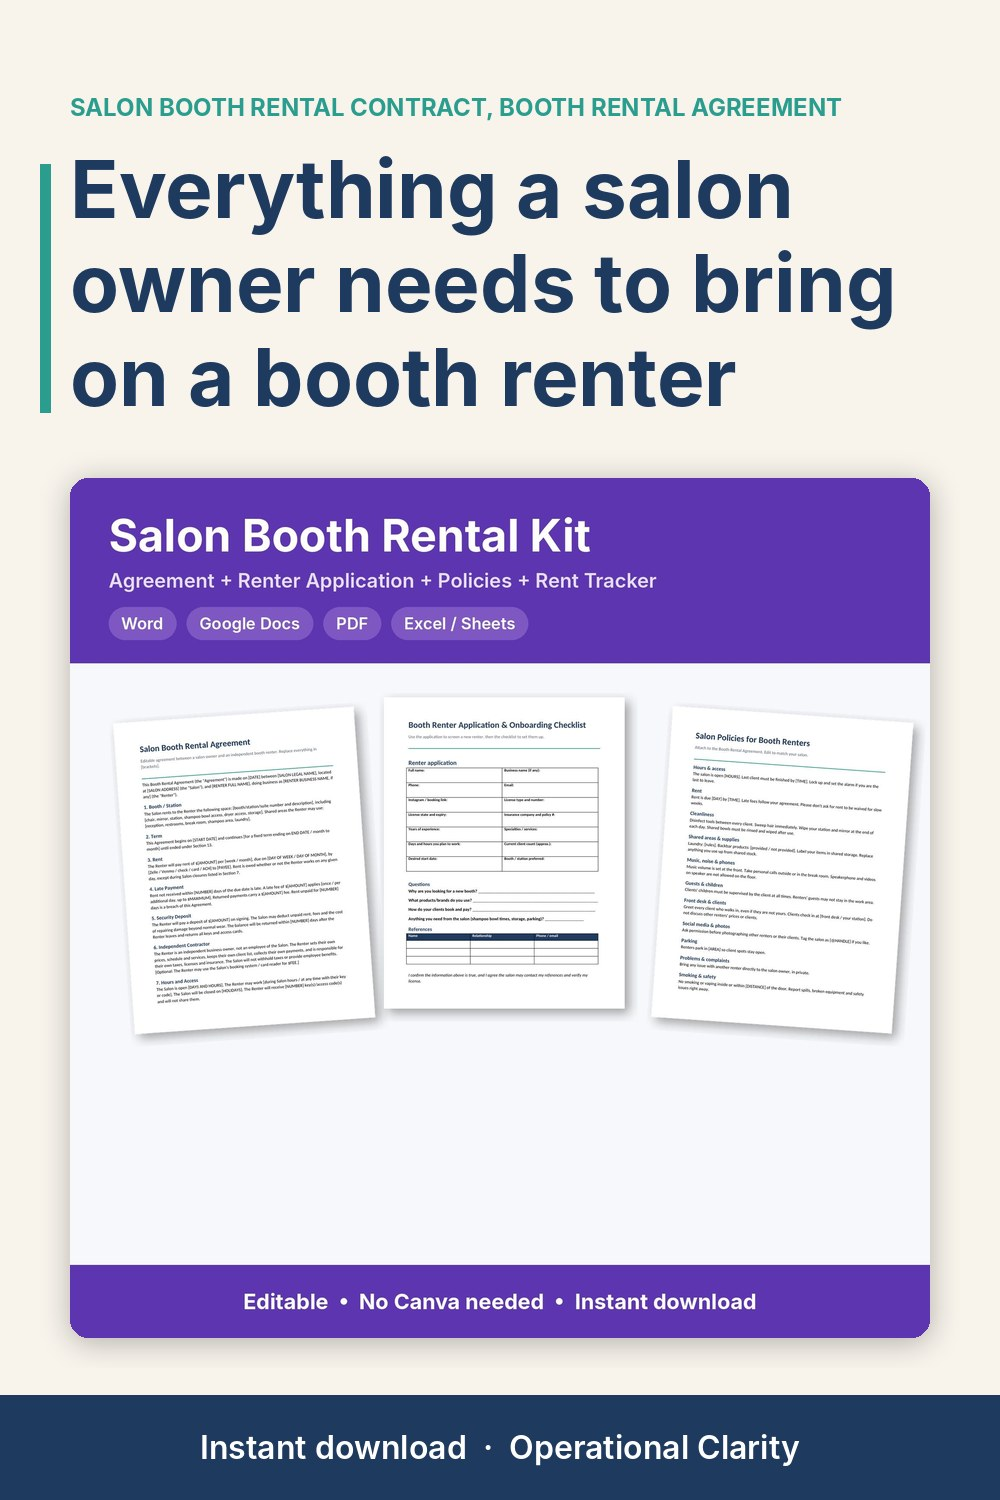
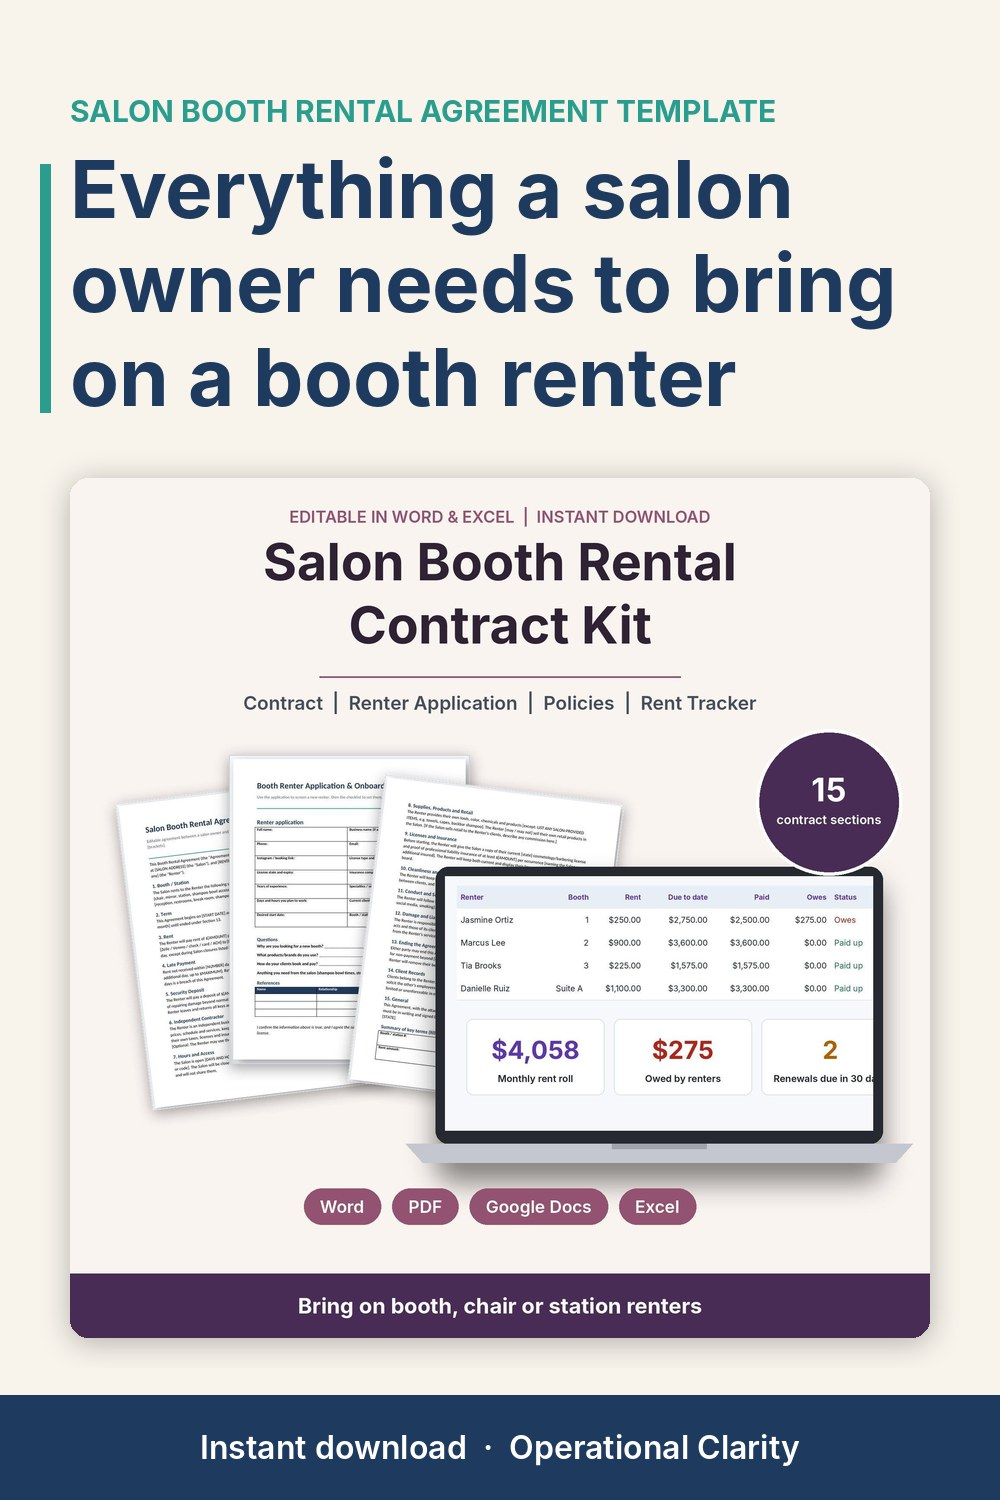
STATS 11/10: main + b pins re-rendered for reverted title of 4597001937; refresh feed
Claude-Session: https://claude.ai/code/session_01DNMp1qHdJLzhWbKsZHTYBr

Changed region(s): [[0.062, 0.3067, 0.93, 0.8893], [0.062, 0.0613, 0.837, 0.092]]

diff --git a/index.html b/index.html
@@ -7,6 +7,6 @@
 <div class="card"><h2><a href="recipe-cost-calculator.html">Recipe Cost Calculator</a></h2><p>Cost per batch, cost per serving and a suggested price for baked goods.</p></div>
 <div class="card"><h2><a href="paycheck-budget-calculator.html">Paycheck Budget Calculator</a></h2><p>Split bills across paychecks and see what is left from each one.</p></div>
 <div class="card"><h2><a href="landed-cost-calculator.html">Landed Cost Calculator</a></h2><p>True cost per unit after freight, duty and fees.</p></div>
-<h2 id="templates">Spreadsheet & Document Templates</h2><ul><li><a href="p/4595349035.html">2027 Planner Digital &amp; Printable</a></li><li><a href="p/4594598019.html">Airbnb Welcome Book Template Editable in Word Google Docs</a></li><li><a href="p/4602024296.html">Babysitting Forms Kit</a></li><li><a href="p/4553654453.html">Bakery Business Bundle</a></li><li><a href="p/4596837173.html">Bookkeeping Spreadsheet Small Business</a></li><li><a href="p/4608973473.html">Brow Lamination Forms Kit</a></li><li><a href="p/4554866019.html">Business Budget Spreadsheet</a></li><li><a href="p/4600601073.html">Candle Making Log Spreadsheet + Fragrance Load Calculator</a></li><li><a href="p/4601355308.html">Catering Contract Template Kit</a></li><li><a href="p/4607543295.html">Cleaning Business Forms Kit</a></li><li><a href="p/4598967865.html">Coffee Shop Business Plan Template + Startup &amp; Profit Planner Spreadsheet</a></li><li><a href="p/4602477706.html">Consignment Tracker Spreadsheet + Consignment Agreement</a></li><li><a href="p/4600607420.html">Consulting Contract Template + Statement of Work &amp; Proposal</a></li><li><a href="p/4554878636.html">Contract Tracker Spreadsheet</a></li><li><a href="p/4597002015.html">Cookie Pricing Calculator</a></li><li><a href="p/4601198780.html">Dance Studio Forms Kit</a></li><li><a href="p/4601100164.html">Daycare Menu Planner Spreadsheet + Weekly Menu Template</a></li><li><a href="p/4610492983.html">Dog Grooming Forms Kit</a></li><li><a href="p/4598811066.html">Embroidery Pricing Calculator Spreadsheet</a></li><li><a href="p/4594516468.html">Employee Schedule Template Excel Google Sheets</a></li><li><a href="p/4607276707.html">Esthetician Forms Kit</a></li><li><a href="p/4599677766.html">Event Planner Contract Template + Client Questionnaire &amp; Budget Tracker</a></li><li><a href="p/4599435344.html">Florist Order Form Template + Wedding Consultation Form &amp; Flower Pricing Calculator</a></li><li><a href="p/4602913827.html">Food Cost Bundle</a></li><li><a href="p/4597499808.html">Food Truck Business Plan Template + Startup &amp; Profit Planner Spreadsheet</a></li><li><a href="p/4602392090.html">Freelance Writer Contract Template Kit</a></li><li><a href="p/4601783746.html">Graphic Design Contract Template Kit</a></li><li><a href="p/4611234615.html">Hair Extension Forms Kit</a></li><li><a href="p/4597022350.html">Home Daycare Starter Kit</a></li><li><a href="p/4601273740.html">Horse Boarding Contract Kit</a></li><li><a href="p/4552565761.html">Ingredient Cost Comparison Sheet</a></li><li><a href="p/4552578072.html">Inventory Count Sheet</a></li><li><a href="p/4554865995.html">Inventory Loss Tracker</a></li><li><a href="p/4553664350.html">Inventory Management Bundle</a></li><li><a href="p/4443844823.html">Inventory Tracker Spreadsheet with Reorder Alerts</a></li><li><a href="p/4602913735.html">Inventory and Ordering Bundle</a></li><li><a href="p/4554878596.html">Landed Cost Calculator Spreadsheet</a></li><li><a href="p/4602544610.html">Landscaping Contract Template Kit</a></li><li><a href="p/4606330823.html">Lash Tech Forms Kit</a></li><li><a href="p/4608245532.html">Makeup Artist Contract Kit</a></li><li><a href="p/4598084241.html">Massage Intake Form Template + SOAP Notes &amp; Client Tracker Spreadsheet</a></li><li><a href="p/4611943162.html">Microblading Consent Form Kit</a></li><li><a href="p/4601646939.html">Mobile Bartending Contract Template Kit</a></li><li><a href="p/4558377143.html">Monthly Profit and Loss Dashboard Template</a></li><li><a href="p/4554866001.html">Multi Location Inventory Tracker</a></li><li><a href="p/4602844224.html">Nail Tech Forms Kit</a></li><li><a href="p/4601947594.html">Nanny Contract Template Kit</a></li><li><a href="p/4598251079.html">Notary Log Printable, Notary Journal 150 Entries, Notary Record Book + Business Kit, Fee Sheet, Loan Signing Checklist &amp; Mileage Tracker</a></li><li><a href="p/4594847811.html">Paycheck Budget Planner Spreadsheet</a></li><li><a href="p/4599761870.html">Personal Trainer Forms + Client Tracker</a></li><li><a href="p/4598178519.html">Pet Sitting Contract Template + Pet Care Sheet &amp; Booking Invoice Tracker</a></li><li><a href="p/4612559974.html">Photo Booth Contract Kit</a></li><li><a href="p/4597992636.html">Photography Client Questionnaire Templates + Pricing Calculator &amp; Booking Tracker</a></li><li><a href="p/4599831777.html">Piano Lesson Tracker + Practice Assignment Sheet &amp; Studio Policy</a></li><li><a href="p/4594208500.html">Print on Demand Profit Tracker Spreadsheet</a></li><li><a href="p/4554878680.html">Product Cost Calculator</a></li><li><a href="p/4603480063.html">Purchase Order + Inventory Dashboard</a></li><li><a href="p/4552565751.html">Purchase Order Approval Tracker</a></li><li><a href="p/4430807339.html">Purchase Order Tracker Spreadsheet &amp; Receiving Log</a></li><li><a href="p/4552578064.html">Purchasing SOP Templates</a></li><li><a href="p/4553664356.html">Purchasing Templates Bundle</a></li><li><a href="p/4554878614.html">Quote Comparison Spreadsheet</a></li><li><a href="p/4562652240.html">Recipe Cost Calculator Google Sheets Excel</a></li><li><a href="p/4552578048.html">Reorder Point Calculator</a></li><li><a href="p/4600974020.html">Restaurant Inventory Sheet + Food Cost Calculator</a></li><li><a href="p/4604903580.html">Restaurant Purchasing Bundle</a></li><li><a href="p/4604185746.html">Retail Shop Bundle</a></li><li><a href="p/4554878660.html">Returns Tracker Spreadsheet</a></li><li><a href="p/4554878628.html">Sales Forecast Spreadsheet</a></li><li><a href="p/4597001937.html">Salon Booth Rental Contract, Booth Rental Agreement, Salon Station &amp; Chair Rental, Renter Application, Policies, Rent Tracker, Word Excel</a></li><li><a href="p/4561265217.html">Simple Inventory Tracker Spreadsheet</a></li><li><a href="p/4605653122.html">Small Business Bookkeeping Dashboard</a></li><li><a href="p/4553654601.html">Small Business Operations Bundle</a></li><li><a href="p/4598888813.html">Soap Making Log Spreadsheet + Cost per Bar Calculator</a></li><li><a href="p/4598679324.html">Social Media Manager Contract Template + Client Onboarding &amp; Pricing Calculator</a></li><li><a href="p/4609739239.html">Spray Tan Forms Kit</a></li><li><a href="p/4552578060.html">Supplier Price Tracker</a></li><li><a href="p/4552578052.html">Supplier Tracker Spreadsheet</a></li><li><a href="p/4602618784.html">Tattoo Consent Form Kit</a></li><li><a href="p/4596131544.html">Tax Deduction Tracker Spreadsheet</a></li><li><a href="p/4601852361.html">Tutoring Contract Template Kit</a></li><li><a href="p/4552565827.html">Vendor Onboarding Checklist</a></li><li><a href="p/4599059861.html">Virtual Assistant Contract Template + Client Onboarding &amp; Retainer Time Tracker</a></li><li><a href="p/4554865969.html">Warehouse Spreadsheet</a></li><li><a href="p/4602285754.html">Web Design Contract Template Kit</a></li><li><a href="p/4598332795.html">Wholesale Order Form Template, Editable Wholesale Price List &amp; Order Tracker Spreadsheet, Wholesale Terms, Buyer Application, Excel Word</a></li><li><a href="p/4561283977.html">Wholesale Price List Template Excel Google Sheets</a></li></ul>
+<h2 id="templates">Spreadsheet & Document Templates</h2><ul><li><a href="p/4595349035.html">2027 Planner Digital &amp; Printable</a></li><li><a href="p/4594598019.html">Airbnb Welcome Book Template Editable in Word Google Docs</a></li><li><a href="p/4602024296.html">Babysitting Forms Kit</a></li><li><a href="p/4553654453.html">Bakery Business Bundle</a></li><li><a href="p/4596837173.html">Bookkeeping Spreadsheet Small Business</a></li><li><a href="p/4608973473.html">Brow Lamination Forms Kit</a></li><li><a href="p/4554866019.html">Business Budget Spreadsheet</a></li><li><a href="p/4600601073.html">Candle Making Log Spreadsheet + Fragrance Load Calculator</a></li><li><a href="p/4601355308.html">Catering Contract Template Kit</a></li><li><a href="p/4607543295.html">Cleaning Business Forms Kit</a></li><li><a href="p/4598967865.html">Coffee Shop Business Plan Template + Startup &amp; Profit Planner Spreadsheet</a></li><li><a href="p/4602477706.html">Consignment Tracker Spreadsheet + Consignment Agreement</a></li><li><a href="p/4600607420.html">Consulting Contract Template + Statement of Work &amp; Proposal</a></li><li><a href="p/4554878636.html">Contract Tracker Spreadsheet</a></li><li><a href="p/4597002015.html">Cookie Pricing Calculator</a></li><li><a href="p/4601198780.html">Dance Studio Forms Kit</a></li><li><a href="p/4601100164.html">Daycare Menu Planner Spreadsheet + Weekly Menu Template</a></li><li><a href="p/4610492983.html">Dog Grooming Forms Kit</a></li><li><a href="p/4598811066.html">Embroidery Pricing Calculator Spreadsheet</a></li><li><a href="p/4594516468.html">Employee Schedule Template Excel Google Sheets</a></li><li><a href="p/4607276707.html">Esthetician Forms Kit</a></li><li><a href="p/4599677766.html">Event Planner Contract Template + Client Questionnaire &amp; Budget Tracker</a></li><li><a href="p/4599435344.html">Florist Order Form Template + Wedding Consultation Form &amp; Flower Pricing Calculator</a></li><li><a href="p/4602913827.html">Food Cost Bundle</a></li><li><a href="p/4597499808.html">Food Truck Business Plan Template + Startup &amp; Profit Planner Spreadsheet</a></li><li><a href="p/4602392090.html">Freelance Writer Contract Template Kit</a></li><li><a href="p/4601783746.html">Graphic Design Contract Template Kit</a></li><li><a href="p/4611234615.html">Hair Extension Forms Kit</a></li><li><a href="p/4597022350.html">Home Daycare Starter Kit</a></li><li><a href="p/4601273740.html">Horse Boarding Contract Kit</a></li><li><a href="p/4552565761.html">Ingredient Cost Comparison Sheet</a></li><li><a href="p/4552578072.html">Inventory Count Sheet</a></li><li><a href="p/4554865995.html">Inventory Loss Tracker</a></li><li><a href="p/4553664350.html">Inventory Management Bundle</a></li><li><a href="p/4443844823.html">Inventory Tracker Spreadsheet with Reorder Alerts</a></li><li><a href="p/4602913735.html">Inventory and Ordering Bundle</a></li><li><a href="p/4554878596.html">Landed Cost Calculator Spreadsheet</a></li><li><a href="p/4602544610.html">Landscaping Contract Template Kit</a></li><li><a href="p/4606330823.html">Lash Tech Forms Kit</a></li><li><a href="p/4608245532.html">Makeup Artist Contract Kit</a></li><li><a href="p/4598084241.html">Massage Intake Form Template + SOAP Notes &amp; Client Tracker Spreadsheet</a></li><li><a href="p/4611943162.html">Microblading Consent Form Kit</a></li><li><a href="p/4601646939.html">Mobile Bartending Contract Template Kit</a></li><li><a href="p/4558377143.html">Monthly Profit and Loss Dashboard Template</a></li><li><a href="p/4554866001.html">Multi Location Inventory Tracker</a></li><li><a href="p/4602844224.html">Nail Tech Forms Kit</a></li><li><a href="p/4601947594.html">Nanny Contract Template Kit</a></li><li><a href="p/4598251079.html">Notary Log Printable, Notary Journal 150 Entries, Notary Record Book + Business Kit, Fee Sheet, Loan Signing Checklist &amp; Mileage Tracker</a></li><li><a href="p/4594847811.html">Paycheck Budget Planner Spreadsheet</a></li><li><a href="p/4599761870.html">Personal Trainer Forms + Client Tracker</a></li><li><a href="p/4598178519.html">Pet Sitting Contract Template + Pet Care Sheet &amp; Booking Invoice Tracker</a></li><li><a href="p/4612559974.html">Photo Booth Contract Kit</a></li><li><a href="p/4597992636.html">Photography Client Questionnaire Templates + Pricing Calculator &amp; Booking Tracker</a></li><li><a href="p/4599831777.html">Piano Lesson Tracker + Practice Assignment Sheet &amp; Studio Policy</a></li><li><a href="p/4594208500.html">Print on Demand Profit Tracker Spreadsheet</a></li><li><a href="p/4554878680.html">Product Cost Calculator</a></li><li><a href="p/4603480063.html">Purchase Order + Inventory Dashboard</a></li><li><a href="p/4552565751.html">Purchase Order Approval Tracker</a></li><li><a href="p/4430807339.html">Purchase Order Tracker Spreadsheet &amp; Receiving Log</a></li><li><a href="p/4552578064.html">Purchasing SOP Templates</a></li><li><a href="p/4553664356.html">Purchasing Templates Bundle</a></li><li><a href="p/4554878614.html">Quote Comparison Spreadsheet</a></li><li><a href="p/4562652240.html">Recipe Cost Calculator Google Sheets Excel</a></li><li><a href="p/4552578048.html">Reorder Point Calculator</a></li><li><a href="p/4600974020.html">Restaurant Inventory Sheet + Food Cost Calculator</a></li><li><a href="p/4604903580.html">Restaurant Purchasing Bundle</a></li><li><a href="p/4604185746.html">Retail Shop Bundle</a></li><li><a href="p/4554878660.html">Returns Tracker Spreadsheet</a></li><li><a href="p/4554878628.html">Sales Forecast Spreadsheet</a></li><li><a href="p/4597001937.html">Salon Booth Rental Agreement Template</a></li><li><a href="p/4561265217.html">Simple Inventory Tracker Spreadsheet</a></li><li><a href="p/4605653122.html">Small Business Bookkeeping Dashboard</a></li><li><a href="p/4553654601.html">Small Business Operations Bundle</a></li><li><a href="p/4598888813.html">Soap Making Log Spreadsheet + Cost per Bar Calculator</a></li><li><a href="p/4598679324.html">Social Media Manager Contract Template + Client Onboarding &amp; Pricing Calculator</a></li><li><a href="p/4609739239.html">Spray Tan Forms Kit</a></li><li><a href="p/4552578060.html">Supplier Price Tracker</a></li><li><a href="p/4552578052.html">Supplier Tracker Spreadsheet</a></li><li><a href="p/4602618784.html">Tattoo Consent Form Kit</a></li><li><a href="p/4596131544.html">Tax Deduction Tracker Spreadsheet</a></li><li><a href="p/4601852361.html">Tutoring Contract Template Kit</a></li><li><a href="p/4552565827.html">Vendor Onboarding Checklist</a></li><li><a href="p/4599059861.html">Virtual Assistant Contract Template + Client Onboarding &amp; Retainer Time Tracker</a></li><li><a href="p/4554865969.html">Warehouse Spreadsheet</a></li><li><a href="p/4602285754.html">Web Design Contract Template Kit</a></li><li><a href="p/4598332795.html">Wholesale Order Form Template, Editable Wholesale Price List &amp; Order Tracker Spreadsheet, Wholesale Terms, Buyer Application, Excel Word</a></li><li><a href="p/4561283977.html">Wholesale Price List Template Excel Google Sheets</a></li></ul>
 <p>Want the full spreadsheet versions? <a class="cta" href="https://www.etsy.com/shop/Operationalclarity">Browse all templates on Etsy</a></p>
 </main><footer>Free tools by <a href="https://www.etsy.com/shop/Operationalclarity">Operational Clarity</a>. Estimates only, not financial or tax advice. Not affiliated with Etsy.</footer></body></html>

diff --git a/p/4597001937.html b/p/4597001937.html
@@ -1,8 +1,8 @@
 <!doctype html><html lang="en"><head><meta charset="utf-8"><meta name="viewport" content="width=device-width,initial-scale=1">
-<title>Salon Booth Rental Contract, Booth Rental Agreement, Salon Station &amp; Chair Rental, Renter Application, Policies, Rent Tracker, Word Excel | Operational Clarity</title><meta name="description" content="SALON BOOTH RENTAL KIT | Booth Rental Agreement + Renter Application + Salon Policies + Booth Rent Tracker | Editable Word, Google Docs, PDF &amp; Excel | Inst">
+<title>Salon Booth Rental Agreement Template | Operational Clarity</title><meta name="description" content="SALON BOOTH RENTAL KIT | Booth Rental Agreement + Renter Application + Salon Policies + Booth Rent Tracker | Editable Word, Google Docs, PDF &amp; Excel | Inst">
 <link rel="canonical" href="https://hgmanagementusa-bot.github.io/operationalclarity-tools/p/4597001937.html"><link rel="stylesheet" href="../style.css">
-<meta property="og:title" content="Salon Booth Rental Contract, Booth Rental Agreement, Salon Station &amp; Chair Rental, Renter Application, Policies, Rent Tracker, Word Excel"><meta property="og:image" content="https://hgmanagementusa-bot.github.io/operationalclarity-tools/pins/4597001937.jpg"><meta property="og:type" content="product"></head>
+<meta property="og:title" content="Salon Booth Rental Agreement Template"><meta property="og:image" content="https://hgmanagementusa-bot.github.io/operationalclarity-tools/pins/4597001937.jpg"><meta property="og:type" content="product"></head>
 <body><header><a href="../index.html">Operational Clarity · Small Business Templates</a></header><main>
-<h1>Salon Booth Rental Contract, Booth Rental Agreement, Salon Station &amp; Chair Rental, Renter Application, Policies, Rent Tracker, Word Excel</h1><img src="../pins/4597001937.jpg" alt="Salon Booth Rental Contract, Booth Rental Agreement, Salon Station &amp; Chair Rental, Renter Application, Policies, Rent Tracker, Word Excel" style="max-width:100%;height:auto;border-radius:8px">
+<h1>Salon Booth Rental Agreement Template</h1><img src="../pins/4597001937.jpg" alt="Salon Booth Rental Agreement Template" style="max-width:100%;height:auto;border-radius:8px">
 <p><a class="cta" href="https://www.etsy.com/listing/4597001937/salon-booth-rental-agreement-template">Get it on Etsy</a></p><p>SALON BOOTH RENTAL KIT | Booth Rental Agreement + Renter Application + Salon Policies + Booth Rent Tracker | Editable Word, Google Docs, PDF &amp; Excel | Instant Download</p><p>Everything a salon owner needs to bring on a booth renter, in one download. Not just a one-page contract: you also get a renter application, an onboarding checklist, a set of salon policies, and a spreadsheet that tracks rent, late fees, deposits and license renewals.</p><p>WHAT&#x27;S INCLUDED<br>1. Salon Booth Rental Agreement (Word + PDF)<br>• 15 sections: booth/station, term, rent, late payment, security deposit, independent contractor terms, hours and access, supplies and retail, licenses and insurance, sanitation, conduct, damage and liability, ending the agreement, client records, general terms<br>• Key-terms summary table and signature block<br>2. Booth Renter Application &amp; Onboarding Checklist (Word + PDF)<br>• Application with license, insurance, experience and references<br>• Checklist for before move-in, move-in day and the first 30 days<br>3. Salon Policies for Booth Renters (Word + PDF)<br>• 11 ready-to-edit policies (hours, rent, cleanliness, shared supplies, music and phones, guests and children, front desk, social media, parking, complaints, safety) + renter acknowledgment<br>4. Booth Rent Tracker (Excel / Google Sheets)<br>• Weekly or monthly rent for up to 30 renters<br>• Rent due to date, payments, late fees and balance owed for each renter, calculated automatically<br>• Deposits held, monthly rent roll, rent collected this month<br>• License and insurance expiry dates flagged 30 days ahead<br>5. Start Here guide</p><p>EDIT IT YOUR WAY<br>Open the Word files in Microsoft Word, Pages or Google Docs and replace everything in [brackets]. No Canva account needed. PDFs are included for printing.</p><p>GOOD TO KNOW<br>• This is a template, not legal advice. Booth rental, independent contractor and deposit laws differ by state. Edit it to fit your salon and have it reviewed by a local attorney before use.<br>• Digital download. No physical item will be shipped.<br>• For use in your own salon. No reselling or sharing of the files.</p><p><a class="cta" href="https://www.etsy.com/listing/4597001937/salon-booth-rental-agreement-template">Get it on Etsy</a></p>
 </main><footer>By <a href="https://www.etsy.com/shop/Operationalclarity">Operational Clarity</a>. Not affiliated with Etsy.</footer></body></html>
